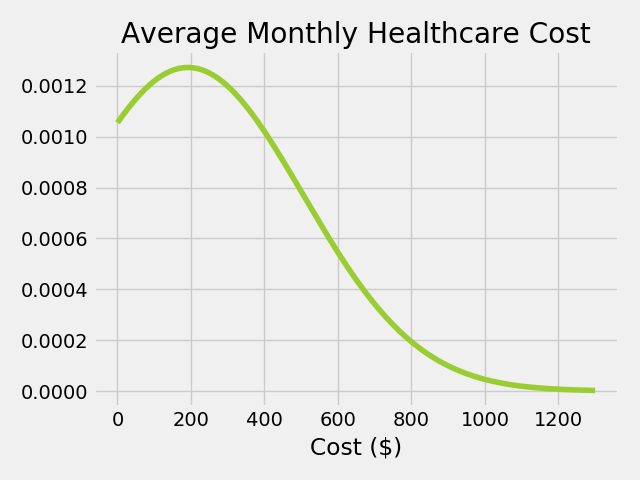
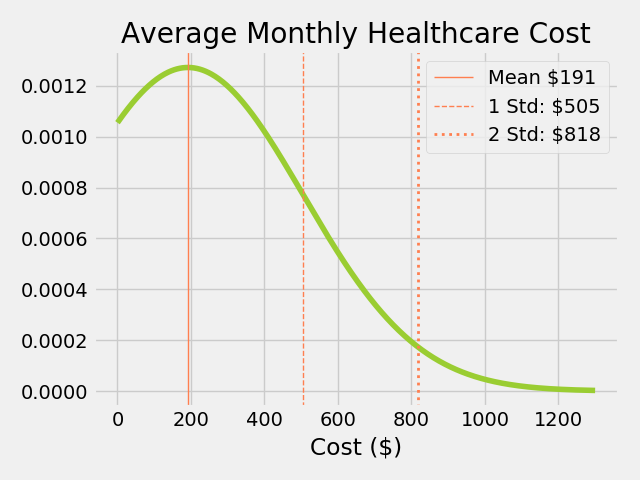
added vlines to charts and updated README

diff --git a/src/cap1_script.py b/src/cap1_script.py
@@ -66,6 +66,10 @@ def plot_dist(mu, sigma, xmin, xmax, title, xlabel, color):
     ax.plot(x, stats.norm.pdf(x, mu, sigma), color=color)
     ax.set_title(title)
     ax.set_xlabel(xlabel)
+    ax.axvline(mu, color='coral', label=(f'Mean ${int(mu)}'), linewidth=1)
+    ax.axvline(mu + sigma, color='coral',label=f"1 Std: ${int(mu + sigma)}", linewidth=1, linestyle='--')
+    ax.axvline(mu + 2*sigma, color='coral',label=f"2 Std: ${int(mu + 2*sigma)}", linewidth=2, linestyle=':')
+    ax.legend()
     plt.tight_layout()
 
 
@@ -167,7 +171,7 @@ if __name__ == "__main__":
     plt.savefig('images/rent_hist_with_dist.png')
     plt.close()
 
-
+    #seaborn distplot
     plt.figure()
     plt.axvline(np.mean(rent['1bed']), color='coral', linewidth=1, label='Mean ($769)')
     sns.distplot(rent['1bed'], axlabel="Monthly Rent ($)")
@@ -210,11 +214,13 @@ if __name__ == "__main__":
     total_women = single_fem['Bucket Total'].iloc[0]
     total_men = single_male['Bucket Total'].iloc[0]
 
+    #creating weighted means
     food_mean = np.mean([weighted_means(food_fem, single_fem, 'Food', total_women), weighted_means(food_male, single_male, 'Food', total_men)])
     healthcare_mean = np.mean([weighted_means(healthcare_fem, single_fem, 'Healthcare', total_women), weighted_means(healthcare_male, single_male, 'Healthcare', total_men)])
     housing_mean = np.mean([weighted_means(housing_fem, single_fem, 'Housing', total_women), weighted_means(housing_male, single_male, 'Housing', total_men)])
     transportation_mean = np.mean([weighted_means(transportation_fem, single_fem, 'Transportation', total_women), weighted_means(transportation_male, single_male, 'Transportation', total_men)])
 
+    #standard deveations
     food_std = np.mean([food_male.std(), food_fem.std()])
     healthcare_std = np.mean([healthcare_male.std(), healthcare_fem.std()])
     housing_std = np.mean([housing_male.std(), housing_fem.std()])
@@ -222,6 +228,9 @@ if __name__ == "__main__":
 
 
     plot_dist(food_mean/12, food_std/np.sqrt(n), 0, 1600, "Average Monthly Food Cost", "Cost ($)", 'orange')
+    ax.axvline(food_mean/12 + food_std/np.sqrt(n), label=f"1 Std: ${food_mean/12 + food_std/np.sqrt(n)}")
+    ax.axvline(food_mean/12 + (food_std/np.sqrt(n)*2), label=f"2 Std: ${food_mean/12 + food_std/np.sqrt(n)}")
+
     plt.savefig('images/food_dist.png')
     plt.show()
     # plt.close()

diff --git a/README.md b/README.md
@@ -1,27 +1,44 @@
 # Background
-something something something dark side
+The newly minted COVID-19 stimulus bill has sparked conversation among both legislators and citizens as to what the appropriate amount of relief might be to help Americans weather this crisis.  Whenever monthly cash payments come up in the national policy conversation, the discussion inevitably turns to Universal Basic Income (UBI).
+
 ## UBI: Universal Basic Income
-gee that'd be swell
+UBI is a an idea that has its basis in the belief that food, shelter, healthcare, and other bare necessities are, in fact, human rights.  With no preconditions other than a human pulse, it would represent a departure from the current oversight-dependent welfare systems.  It is built upon the conviction that "the real experts on what poor people need are poor people themselves" (Bregman, 2014).
+
+Randomized control trials across the globe have shown statistically significant correlation between unconditional cash tranfers and reduced crime, teen pregnancy, and malnutrition, as well as improvements in in areas like economic growth and school performance (Hanlon et al, 2010).  While organizations like GiveDirectly have successfully put this into practice across the global south, there has long been talk (both serious and not) of implementing similar strategies in more developed nations that retain high poverty levels.  It is often forgotten just how close the United States came to making this a reality as early as 1969.  Yes, thats right, Richard Nixon.  
+
+Such a bill had already passed the House of Representatives, and Nixon would have been days away from guaranteeing every American family of four $1600 per year, *nearly $11,000 in 2020 dollars*.  On the day he intended to take the plan public, he was presented with a Royal Commission Report on a late 1700s welfare program from Speenhamland, England.  The report was later revealed to be written almost entirely without the collection of data, and only to reinforce existing beliefs about the correlation between poverty and moral impurity (Bregman, 2014).  Unfortunately, the damage was already done.  The bill, along with the President's chance at making history, never fully recovered.
 
 # Data
+Thanks to the good work of the people at the Census Bureau and the Bureau of Labor Statistics, much of my data came in a pre-aggregated form (many of my base data points were already averages).  While this makes comprehension easier, it also became a limitation on what sort of statistical analysis I was able to perform with the data.  In order to conduct an analysis, I made assumptions regarding the distributions of expenses, namely, that they were normally distributed.  I made an additional assumptions regarding what expenses could be considered 'core' for the purposes of this exercise, deciding on housing, food, healthcare, and transportation.  I also chose to focus on single individuals under the assumption that they would be the least likely to have support for their income from other individuals.
 
-assumptions about normal distribution
-Limitations of pre-aggregated data, weighted relatively heavily in the lowest two buckets
+
 ## U.S. Census
 ### Rent
 ### Mortgage
+This data provided the biggest cleaning challenge as it was provided with non-descriptive column-names, and all columns and sub-columns were expressed laterally in a single row.
+![](images/mort_table.png)
 ## Bureau of Labor Statistics
+The BLS data reports the average annual expenses of single men and women. Just over 50% of individuals from this dataset came from income brackets below $30,000/yr, higher than the national estimate of roughly 30%.  This, combined with the fact that the selected demgraphic is likely to be the sole earner, likely has the effect of lowering average costs when compared with the population.  An additional factor to this effect was the exlusion of certain income categories on for the female data.  For this reason I only considered data for income brackets up to $70,000/yr.
+
+![](images/expense_tables.png)
 ### Expenses
 only people making up to 69k/yr
 
 # EDA
 ## The Cost of Housing
-![](images/rent_hist.png)
-![](images/rent_hist_with_dist.png)
+
+![](images/rent_distplot.png)
+
 
 ![](images/mortgage_hist.png)
-## Other "Core" Expenses
 
+interesting to no that the most filled bucket is  1-1.5k.  I expect this difference can be partially explained by the definition of "1 Bedroom" in our rent catagory.  I suspect that this includes folks who are simply renting a badroom in a house, as opposed to a full, "1 Bedroom" house or apartment.
+
+![](images/housing_dist.png)
+
+
+## Other "Core" Expenses
+These charts are most useful from the mean rightward.  In interpreting this data, I have made the assumption that the mode is likely quite close to the minimum in this these cases.  considering that our sample population is heavily weighted towards the lower end of the wealth scale, it is unsurprising that the most values occur around the 'best deal' in a given category.  If we recall the mean rent plot, we find that this distribution fits well with the above assumption, with a sharp incline relatively close to the mode, and a more normal decline as prices go up.
 
 ### Food
 
@@ -30,6 +47,7 @@ only people making up to 69k/yr
 ### Healthcare
 
 ![](images/healthcare_dist.png)
+uninsured and employer covered
 
 ### Transportation
 
@@ -37,12 +55,16 @@ only people making up to 69k/yr
 
 ## The Full Picture
 ### How does it compare?
-Colorado min wage
+Colorado min wage - 12/hr - 24,960/yr
 
-Fed Min Wage
+Fed Min Wage - 7.25/hr - 15,080/yr
 
-COViD stimulus
+COViD stimulus - $1200/mo - 14,400/yr
+
+Fed poverty levels - single person, $12,760/yr
 ## Policy Implications
 rent control
+show dollar for dollar benefit
+how much total money, a few potential sources
 
-# Sources
+# Lessons Learned
